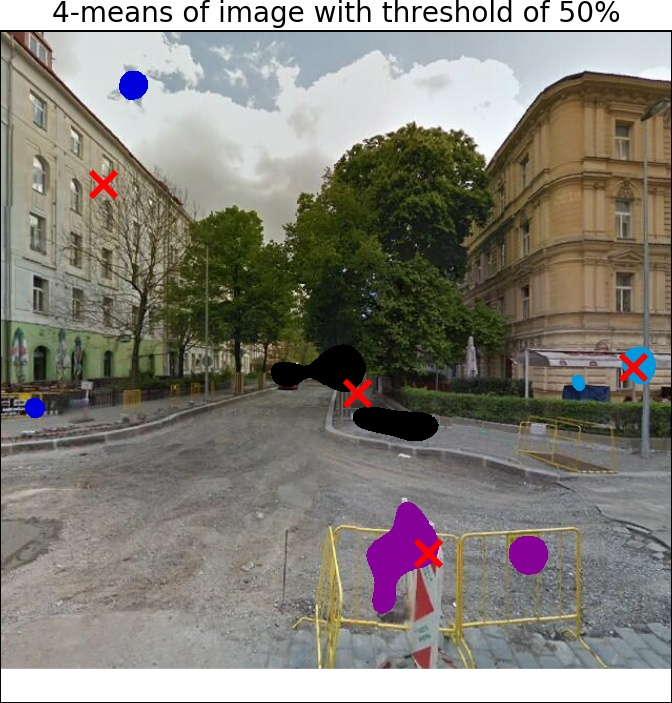
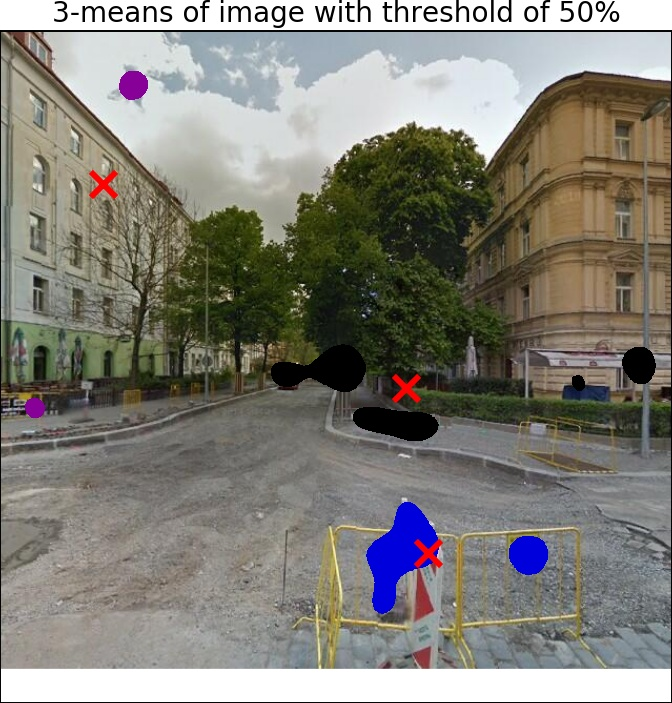
plots regenerated to the k=3 which we use elsewhere

diff --git a/gen_plots.py b/gen_plots.py
@@ -48,7 +48,7 @@ for i in range(0,len(image_files)):
     nonzero_px = np.transpose(np.nonzero(px2d))
     print len(nonzero_px), nonzero_px[0:10]
 
-    k = 4
+    k = 3
     kmeans = KMeans(n_clusters=k).fit(nonzero_px)
     print kmeans
     print kmeans.cluster_centers_
